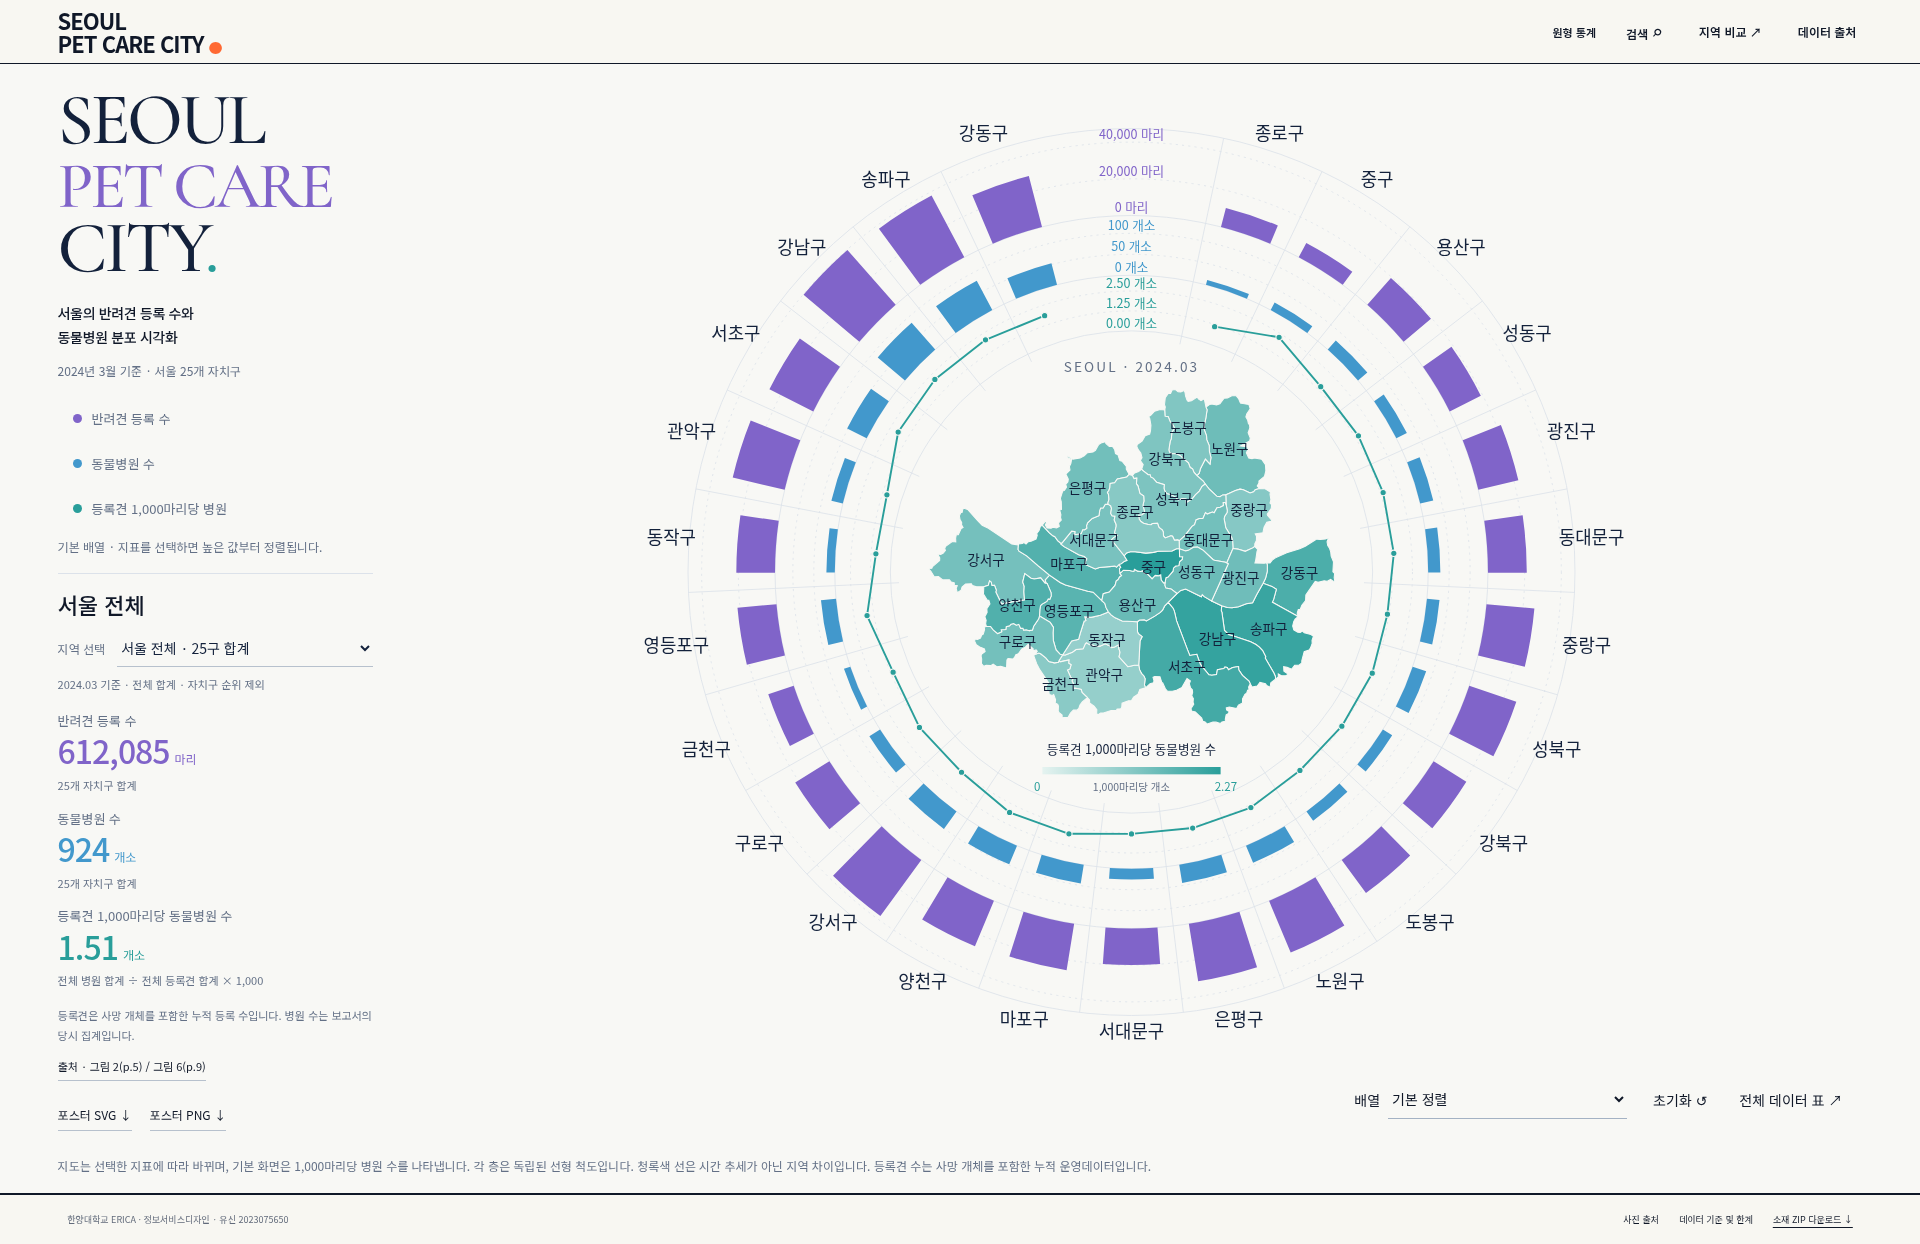
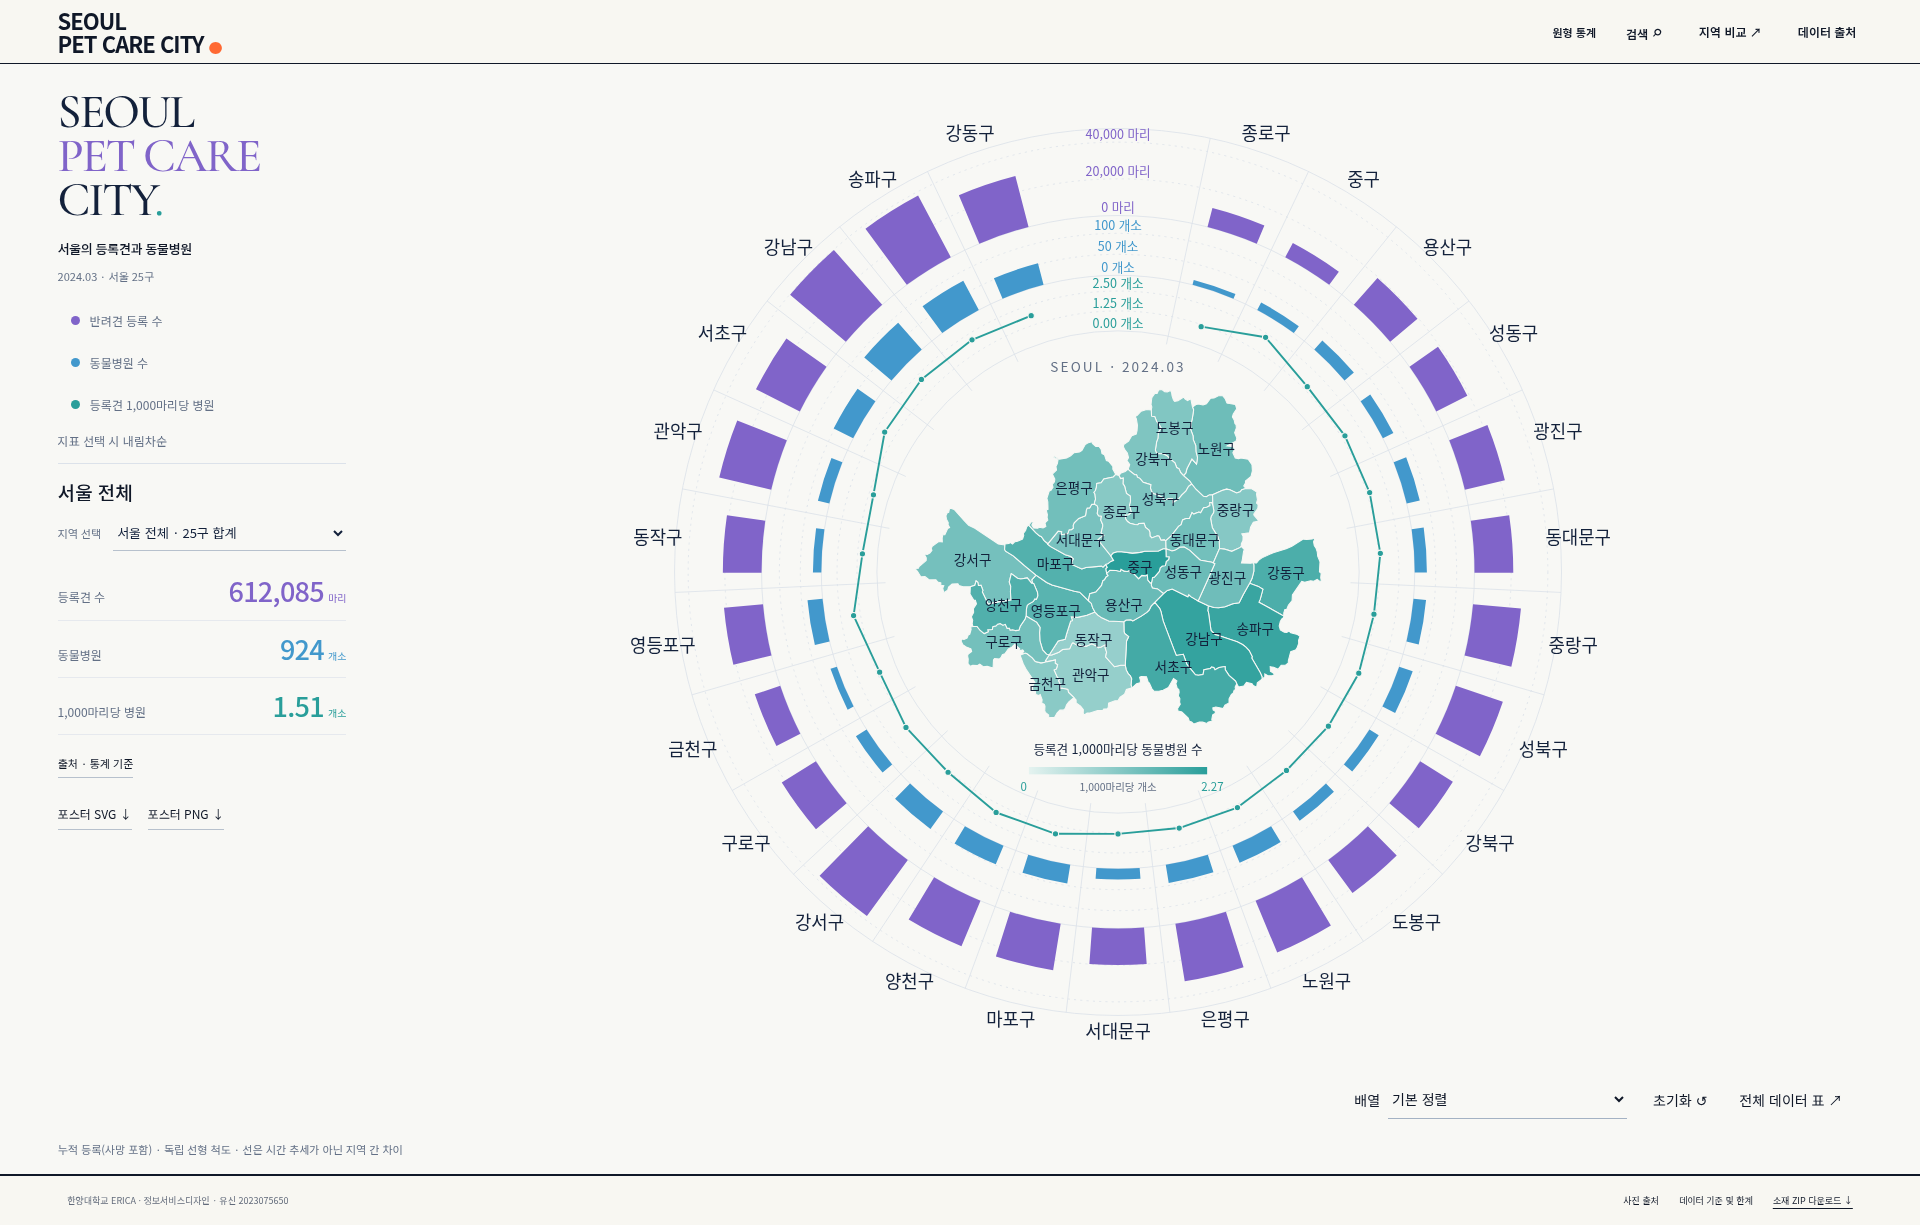
Condense supporting text to emphasize the main radial chart

diff --git a/src/main.jsx b/src/main.jsx
@@ -8,7 +8,7 @@ function App(){const[selected,setSelected]=useState(null),[hover,setHover]=useSt
 function trackHover(code,e){setHover(code);if(e){const b=e.currentTarget.getBoundingClientRect();const x=e.clientX||b.x+b.width/2,y=e.clientY||b.y+b.height/2;setCursor({x:Math.max(10,Math.min(x+20,window.innerWidth-320)),y:Math.max(10,Math.min(y+20,window.innerHeight-285))});}}
 function select(code){setSelected(code);}function compare(code){setPair(p=>p.includes(code)?p:[p[0],code]);setModal('compare');}function chooseMetric(key){setRadialMetric(key);setOrder(key);setHover(null);}function reset(){setSelected(null);setHover(null);setQuery('');setOrder('default');setRadialMetric('all');}
 async function poster(type){try{await exportPoster(type);setToast('포스터 다운로드를 시작했습니다.');}catch{setToast('포스터를 생성하지 못했습니다. 다시 시도해 주세요.');}}
-return <div className="v2"><header className="brand-header"><a href="#" className="logo" onClick={e=>{e.preventDefault();reset();}}>SEOUL<span>PET CARE CITY<span className="logo-dot">●</span></span></a><nav><a href="#radial">원형 통계</a><button onClick={()=>setModal('search')}>검색 <span>⌕</span></button><button onClick={()=>setModal('compare')}>지역 비교 ↗</button><button onClick={()=>setModal('sources')}>데이터 출처</button></nav></header><section className="radial-hero" id="radial" aria-label="통합 원형 데이터 시각화"><div className="radial-intro"><h1>SEOUL<br/><em>PET CARE</em><br/>CITY<span>.</span></h1><h2>서울의 반려견 등록 수와<br/>동물병원 분포 시각화</h2><p className="radial-date">2024년 3월 기준 · 서울 25개 자치구</p><div className="chart-controls"><div className="radial-metric-controls" role="group" aria-label="지표별 순위 보기">{metrics.map(m=><button key={m.key} aria-pressed={radialMetric===m.key} onClick={()=>chooseMetric(m.key)} style={{'--metric-color':m.color}}><i className="metric-dot" aria-hidden="true"/><span>{m.key==='hospitals_per_1000_dogs'?'등록견 1,000마리당 병원':m.label}</span></button>)}</div><p className="chart-sort-status" aria-live="polite">{order==='default'?'기본 배열 · 지표를 선택하면 높은 값부터 정렬됩니다.':order==='name'?'자치구 이름순':metrics.find(m=>m.key===order)?.label+' · 높은 값부터 정렬'}</p></div><DataSummary key={selected||'seoul-city'} rows={rows} selected={selected} onSelect={code=>{setSelected(code);setHover(null);}} onCompare={compare} onSources={()=>setModal('sources')}/><div className="radial-downloads"><button onClick={()=>poster('svg')}>포스터 SVG ↓</button><button onClick={()=>poster('png')}>포스터 PNG ↓</button></div></div><div className="radial-main"><div className="radial-stage"><Chart rows={sorted(rows,order)} geo={geo} selected={selected} hovered={hover} onSelect={select} onHover={trackHover} metric={radialMetric}/></div><div className="radial-sort"><label>배열 <select aria-label="원형 차트 정렬" value={order} onChange={e=>setOrder(e.target.value)}><option value="default">기본 정렬</option><option value="name">자치구 이름순</option>{metrics.map(m=><option key={m.key} value={m.key}>{m.label}순</option>)}</select></label><button onClick={reset}>초기화 ↺</button><button onClick={()=>setModal('overview')}>전체 데이터 표 ↗</button></div></div><p className="radial-reading">지도는 선택한 지표에 따라 바뀌며, 기본 화면은 1,000마리당 병원 수를 나타냅니다. 각 층은 독립된 선형 척도입니다. 청록색 선은 시간 추세가 아닌 지역 차이입니다. 등록견 수는 사망 개체를 포함한 누적 운영데이터입니다.</p></section><footer className="compact-footer"><span>한양대학교 ERICA · 정보서비스디자인 · 유신 2023075650</span><div><button onClick={()=>setModal('credits')}>사진 출처</button><button onClick={()=>setModal('sources')}>데이터 기준 및 한계</button><a href={publicUrl('downloads/SEOUL_PET_CARE_CITY_ASSETS.zip')} download>소재 ZIP 다운로드 ↓</a></div></footer>
+return <div className="v2"><header className="brand-header"><a href="#" className="logo" onClick={e=>{e.preventDefault();reset();}}>SEOUL<span>PET CARE CITY<span className="logo-dot">●</span></span></a><nav><a href="#radial">원형 통계</a><button onClick={()=>setModal('search')}>검색 <span>⌕</span></button><button onClick={()=>setModal('compare')}>지역 비교 ↗</button><button onClick={()=>setModal('sources')}>데이터 출처</button></nav></header><section className="radial-hero" id="radial" aria-label="통합 원형 데이터 시각화"><div className="radial-intro"><h1>SEOUL<br/><em>PET CARE</em><br/>CITY<span>.</span></h1><h2>서울의 등록견과 동물병원</h2><p className="radial-date">2024.03 · 서울 25구</p><div className="chart-controls"><div className="radial-metric-controls" role="group" aria-label="지표별 순위 보기">{metrics.map(m=><button key={m.key} aria-pressed={radialMetric===m.key} onClick={()=>chooseMetric(m.key)} style={{'--metric-color':m.color}}><i className="metric-dot" aria-hidden="true"/><span>{m.key==='hospitals_per_1000_dogs'?'등록견 1,000마리당 병원':m.label}</span></button>)}</div><p className="chart-sort-status" aria-live="polite">{order==='default'?'지표 선택 시 내림차순':order==='name'?'자치구 이름순':metrics.find(m=>m.key===order)?.label+' · 높은 값부터 정렬'}</p></div><DataSummary key={selected||'seoul-city'} rows={rows} selected={selected} onSelect={code=>{setSelected(code);setHover(null);}} onCompare={compare} onSources={()=>setModal('sources')}/><div className="radial-downloads"><button onClick={()=>poster('svg')}>포스터 SVG ↓</button><button onClick={()=>poster('png')}>포스터 PNG ↓</button></div></div><div className="radial-main"><div className="radial-stage"><Chart rows={sorted(rows,order)} geo={geo} selected={selected} hovered={hover} onSelect={select} onHover={trackHover} metric={radialMetric}/></div><div className="radial-sort"><label>배열 <select aria-label="원형 차트 정렬" value={order} onChange={e=>setOrder(e.target.value)}><option value="default">기본 정렬</option><option value="name">자치구 이름순</option>{metrics.map(m=><option key={m.key} value={m.key}>{m.label}순</option>)}</select></label><button onClick={reset}>초기화 ↺</button><button onClick={()=>setModal('overview')}>전체 데이터 표 ↗</button></div></div><p className="radial-reading">누적 등록(사망 포함) · 독립 선형 척도 · 선은 시간 추세가 아닌 지역 간 차이</p></section><footer className="compact-footer"><span>한양대학교 ERICA · 정보서비스디자인 · 유신 2023075650</span><div><button onClick={()=>setModal('credits')}>사진 출처</button><button onClick={()=>setModal('sources')}>데이터 기준 및 한계</button><a href={publicUrl('downloads/SEOUL_PET_CARE_CITY_ASSETS.zip')} download>소재 ZIP 다운로드 ↓</a></div></footer>
 {modal==='search'&&<Dialog title="우리 동네 찾기" onClose={()=>setModal(null)}><input className="district-search" value={query} onChange={e=>setQuery(e.target.value)} placeholder="자치구 이름을 입력하세요" aria-label="자치구 검색" autoFocus/><div className="search-results">{rows.filter(r=>r.district_name_ko.includes(query.trim())).map(r=><button key={r.district_code} onClick={()=>{select(r.district_code);setModal(null);}}><span>{r.district_name_ko}</span><small>{fmt(r.registered_dogs)}마리 ↗</small></button>)}{!rows.some(r=>r.district_name_ko.includes(query.trim()))&&<p>일치하는 자치구가 없습니다.</p>}</div></Dialog>}
 {modal==='compare'&&<Dialog title="두 지역, 함께 비교하기" wide onClose={()=>setModal(null)}><div className="compare-layout">{pair.map((code,i)=>{const r=rows.find(r=>r.district_code===code);return <article key={i} className={'compare-side side-'+i}><div className="compare-photo" style={{background:i?'#FF6933':'#2855FF'}}><label>비교할 지역<select aria-label={`비교 지역 ${i+1}`} value={code} onChange={e=>setPair(p=>p.map((v,j)=>i===j?e.target.value:v))}>{rows.map(r=><option key={r.district_code} value={r.district_code} disabled={pair[1-i]===r.district_code}>{r.district_name_ko}</option>)}</select></label><h2>{r.district_name_ko}</h2><Picture asset={pet(r)} loading="eager"/><small>견종은 시각 테마입니다.</small></div><div className="compare-values">{metrics.map(m=><div key={m.key}><p>{m.label}</p><strong>{fmt(r[m.key],m.key)}<small>{m.unit}</small></strong><div className="simple-bar">{r[m.key]!=null&&<i style={{width:r[m.key]/(d3.max(rows,r=>r[m.key])||1)*100+'%'}}/>}</div><span>{`서울 25구 중 ${rank(rows,r,m.key)}위`}</span></div>)}<Picture asset={life(r)}/><p className="generic-note">일반 반려생활 이미지 · 해당 지역 실촬영 아님</p><Credit asset={pet(r)}/><Credit asset={life(r)}/></div></article>;})}</div><div className="difference"><span>등록견 수 차이</span><strong>{fmt(Math.abs(rows.find(r=>r.district_code===pair[0]).registered_dogs-rows.find(r=>r.district_code===pair[1]).registered_dogs))}<small>마리</small></strong><p>두 막대는 같은 척도입니다. 수량이 많다는 이유만으로 더 좋은 생활환경을 뜻하지 않습니다.</p></div></Dialog>}
 {modal==='sources'&&<Dialog title="데이터 출처 및 통계 기준" onClose={()=>setModal(null)}><div className="source-block"><span>서울디지털재단 · 서울특별시 공식 배포</span><h3>서울 펫 스마트라이프<br/>데이터로 본 반려동물과의 동행</h3><p>공표일 2024.05.29 · 두 지표 모두 2024년 3월 기준<br/>그림 2(p.5): 25구 누적 등록견 수<br/>그림 6(p.9): 25구 동물병원 수</p><a href="https://saif.or.kr/research-report/2461" target="_blank" rel="noreferrer">발행기관 보고서 상세 페이지 ↗</a> · <a href={publicUrl('data/raw/report-2024/seoul-pet-smartlife-20240529.pdf')} target="_blank" rel="noreferrer">보고서 원문 PDF ↗</a></div><div className="source-block"><h3>확인한 숫자와 통계 정의</h3><p>2024년 3월을 공통 기준으로 한 역사적 통계입니다. 현재 시점의 등록 현황이나 영업 병원 수로 표시하지 않습니다. 서울 전체 합계는 자치구 순위에 포함하지 않습니다.</p><p>25구 도표를 전사한 뒤 원본 이미지와 대조했습니다. 등록견 합계 {fmt(total.registered_dogs)}마리, 동물병원 합계 {fmt(total.veterinary_hospitals)}개소는 보고서의 서울 전체 합계와 일치합니다.</p><p>등록견은 등록·승인된 개의 누적 운영데이터이며 사망 개체를 포함합니다(p.5 각주 7). 실제 생존견 수나 2024년 신규 등록 수가 아닙니다.</p><p>동물병원은 지방행정 인허가 자료에 대한 보고서의 공표 집계값을 사용했습니다. 본 사이트는 현재 영업 중 여부나 진료시간을 안내하는 명부가 아닙니다.</p></div><div className="source-block"><h3>계산 방법</h3><p>보고서 p.5 본문의 강남구 등록견 수 39,372와 그림 2의 39,792가 다릅니다. 본 사이트는 25구 합계 612,085와 일치하는 도표값 39,792를 사용합니다.</p><p>등록견 1,000마리당 동물병원 수 = 동물병원 수 ÷ 누적 등록견 수 × 1,000. 비율은 프로그램으로 계산하며 표시만 소수점 둘째 자리로 반올림합니다. 전체 비율은 전체 합계로 계산합니다.</p><p>순위는 내림차순 공동순위(1, 1, 3)입니다. 수량과 비율은 병원 품질이나 의료 서비스의 충분성을 뜻하지 않습니다.</p><a href={publicUrl('data/raw/report-2024/transcription.csv')} download>원본 도표 전사 CSV ↓</a> · <a href={publicUrl('data/validation_report.md')} download>검증 보고서 ↓</a></div><div className="source-block"><h3>지도와 사진</h3><p>지도는 KOSTAT 2013 기반 단순화 경계입니다. 사진은 지역별 시각 테마로 사용한 실제 촬영물이며, 특정 자치구 또는 병원의 실촬영으로 표시하지 않습니다.</p><a href="https://github.com/southkorea/seoul-maps" target="_blank" rel="noreferrer">지도 출처 ↗</a><p>원자료 수집: 2026.11.17 · 공식 PDF 및 25구 도표 재대조: 2026.11.23</p></div></Dialog>}

diff --git a/src/DataSummary.jsx b/src/DataSummary.jsx
@@ -1,20 +1,16 @@
 import React from 'react';
 import {metrics,fmt,summaryFor} from './model.mjs';
-const percent=v=>new Intl.NumberFormat('ko-KR',{minimumFractionDigits:2,maximumFractionDigits:2}).format(v);
 export function DataSummary({rows,selected,onSelect,onCompare,onSources}){
  const s=summaryFor(rows,selected),isDistrict=s.scope==='district';
  return <section className="district-summary" data-summary-scope={s.scope} data-summary-code={selected||'seoul'} aria-label="선택 지역 통계" aria-live="polite" translate="no">
   <div className="summary-heading"><h3>{isDistrict?s.district.district_name_ko:'서울 전체'}</h3>{isDistrict&&<button aria-label="지역 상세 닫기" onClick={()=>onSelect(null)}>선택 해제 ✕</button>}</div>
   <label className="summary-picker">지역 선택<select aria-label="요약 지역 선택" value={selected||''} onChange={e=>onSelect(e.target.value||null)}><option value="">서울 전체 · 25구 합계</option>{rows.map(r=><option key={r.district_code} value={r.district_code}>{r.district_name_ko}</option>)}</select></label>
-  <p className="summary-period">2024.03 기준 · {isDistrict?'자치구 통계':'전체 합계 · 자치구 순위 제외'}</p>
   <div className="radial-totals">{metrics.map(m=>{
-   const isRatio=m.key==='hospitals_per_1000_dogs',delta=s.data[m.key]-s.totals[m.key];
-   return <div key={m.key} data-summary-metric={m.key}><span>{m.label}</span><strong style={{color:m.color}}><span className="summary-value">{fmt(s.data[m.key],m.key)}</span><small>{m.unit}</small></strong>
-    {isDistrict?<><small className="district-rank">공동순위 {s.ranks[m.key]} / {rows.length}</small><p className="summary-context">{isRatio?`서울 전체 ${fmt(s.totals[m.key],m.key)} 대비 ${delta>0?'+':''}${percent(delta)}개소`:`서울 전체의 ${percent(s.data[m.key]/s.totals[m.key]*100)}%`}</p></>:<p className="summary-context">{isRatio?'전체 병원 합계 ÷ 전체 등록견 합계 × 1,000':`${rows.length}개 자치구 합계`}</p>}
+   return <div key={m.key} data-summary-metric={m.key}><span>{m.key==='registered_dogs'?'등록견 수':m.key==='veterinary_hospitals'?'동물병원':'1,000마리당 병원'}</span><strong style={{color:m.color}}><span className="summary-value">{fmt(s.data[m.key],m.key)}</span><small>{m.unit}</small></strong>
+    {isDistrict&&<small className="district-rank">공동순위 {s.ranks[m.key]} / {rows.length}</small>}
    </div>;
   })}</div>
-  <p className="summary-definition">등록견은 사망 개체를 포함한 누적 등록 수입니다. 병원 수는 보고서의 당시 집계입니다.</p>
-  <button className="summary-source" onClick={onSources}>출처 · 그림 2(p.5) / 그림 6(p.9)</button>
+  <button className="summary-source" onClick={onSources}>출처 · 통계 기준</button>
   {isDistrict&&<button className="district-compare" onClick={()=>onCompare(selected)}>이 지역 비교하기 ↗</button>}
  </section>;
 }

diff --git a/src/v2.css b/src/v2.css
@@ -177,3 +177,27 @@
 }
 
 @media(min-width:761px) and (max-width:1100px){.radial-stage::before{content:'좌우로 밀어 전체 그래프를 확인하세요.';display:block;position:sticky;left:0;font-size:12px;color:#637086;margin-bottom:14px}}
+
+/* Concise presentation: supporting text yields to the chart. */
+.radial-intro h1{font-size:48px;line-height:.92;margin-bottom:16px}
+.radial-intro h1 em{font-size:1em}
+.radial-intro h2{font-size:13px;line-height:1.7;margin:12px 0 6px}
+.radial-date{font-size:11px;margin-bottom:16px}
+.radial-intro .chart-controls{margin-bottom:12px}
+.chart-sort-status{font-size:11px;line-height:1.6}
+.summary-heading{margin-top:12px;padding-top:14px}
+.summary-heading h3{font-size:19px}
+.summary-picker{font-size:11px;margin:10px 0}
+.summary-picker select{font-size:13px}
+.radial-totals{display:grid;grid-template-columns:1fr;gap:0;margin:12px 0}
+.radial-totals>div,.radial-totals>div:last-child{display:grid;grid-template-columns:minmax(0,1fr) auto;gap:4px 12px;align-items:baseline;grid-column:auto;padding:12px 0;border-bottom:1px solid #E6E9EE}
+.radial-totals>div>span{font-size:12px;line-height:1.6;min-height:0}
+.radial-totals strong{font-size:27px;letter-spacing:-.7px;line-height:1.2}
+.radial-totals strong small{font-size:10px;margin-left:4px}
+.radial-totals .district-rank{grid-column:1/-1;text-align:right;font-size:11px;margin-top:0}
+.summary-source{font-size:11px;margin-top:2px}
+.radial-downloads{gap:16px;margin-top:20px}
+.radial-downloads button{font-size:12px}
+.radial-reading{font-size:11px;color:#637086;margin:10px 0 14px}
+@media(min-width:1101px){.radial-hero{grid-template-columns:minmax(250px,16%) minmax(0,1fr);gap:0 28px}.radial-intro{padding-top:16px}.radial-intro h1{font-size:48px}.radial-intro .radial-metric-controls button{font-size:12px;min-height:36px;padding:8px 12px}.radial-stage>svg{height:calc(100svh - 84px)}}
+@media(max-width:760px){.radial-intro h1{font-size:42px}.radial-intro h2{font-size:13px}.radial-totals{grid-template-columns:1fr}.radial-totals>div:last-child{grid-column:auto}.radial-intro .chart-controls{margin:18px 0}.radial-totals strong{font-size:27px}}

diff --git a/TEST_REPORT.md b/TEST_REPORT.md
@@ -1,3 +1,12 @@
+# 2026-11-24 精简文字验证
+
+- 缩小标题和辅助文字，三项数据改为横向标签/数值紧凑排列；保留地区排名与全市不排名规则。
+- 删除首屏重复的占比、公式、时间说明和长段定义；原始完整定义继续通过数据来源对话框查看。
+- 主图保持上版放大尺寸。25区数值、排名、三指标、搜索、比较、导出、五种屏幕尺寸通过真实Chromium测试；无页面溢出或控制台异常。
+- DOM交互、生产构建及根路径/子路径集成测试通过。截图更新于exports/professor-revision-*.png。
+
+---
+
 # 2026-11-24 主圆盘放大与视觉精修
 
 - 1920×1080主SVG高996px，较原845px增加约18%；中央地图随投影和主图合计放大约30%。

diff --git a/README.md b/README.md
@@ -1,3 +1,9 @@
+## 2026-11-24 精简文字
+
+标题缩至桌面48px、手机42px。首屏仅保留短副标题、日期、指标按钮、地区选择、三项数字及必要排名；重复公式、份额和长段统计说明从首屏移除，统计定义和计算方法仍在“数据来源”中。圆盘保持996px高的桌面放大尺寸，图表文字不随辅助文字缩小。
+
+---
+
 ## 2026-11-24 主图放大
 
 桌面布局压缩左栏，三个指标按钮移至左侧。1920×1080屏幕中主SVG高度由845px增至996px，中央地图与文字同步放大，完整主图保持在首屏范围内。三层仍使用原有独立线性刻度和同一套数据。平板、手机保留横向滑动以避免缩小区名。
